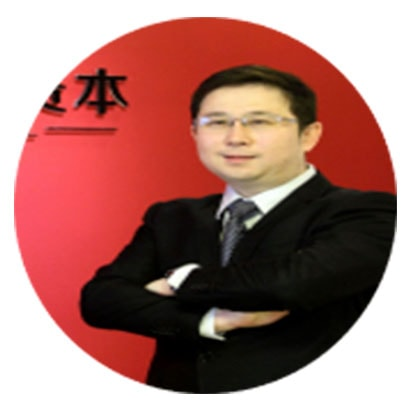
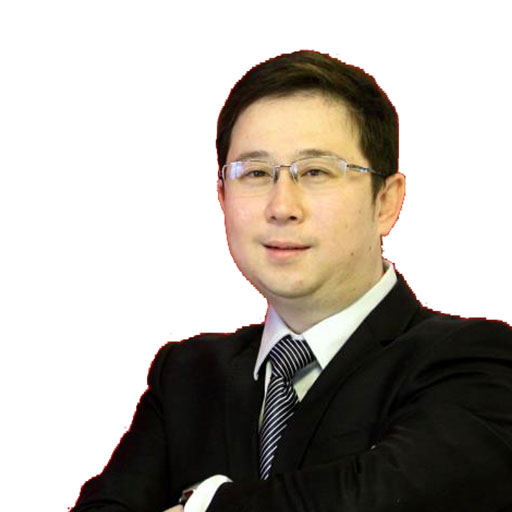
adding pictures

diff --git a/app/views/home/home.html b/app/views/home/home.html
@@ -134,7 +134,7 @@
                         </div>
                         <div class="col-lg-6">
                             <div class="overlay-container overlay-visible">
-                                <img src="images/Slide1.jpg" alt="">
+                                <img src="images/media.jpg" alt="">
                             </div>
                         </div>
                     </div>
